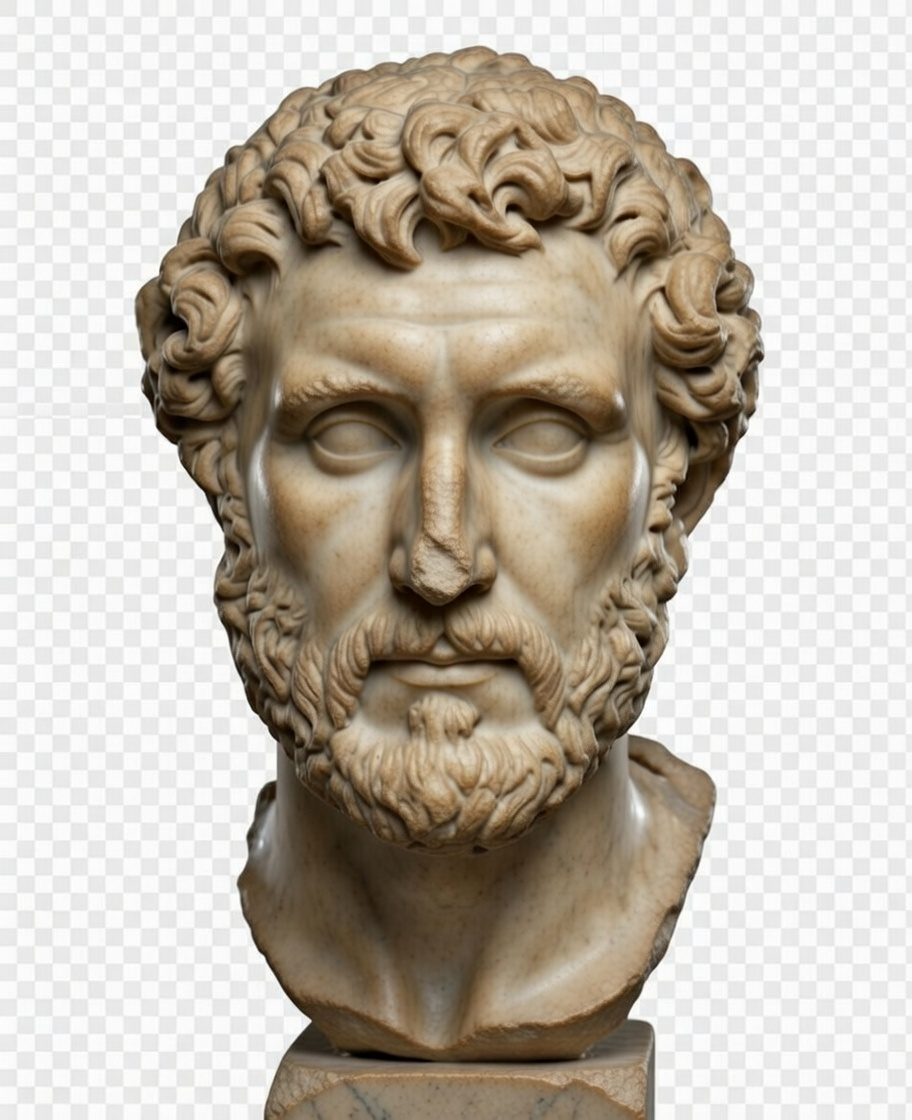
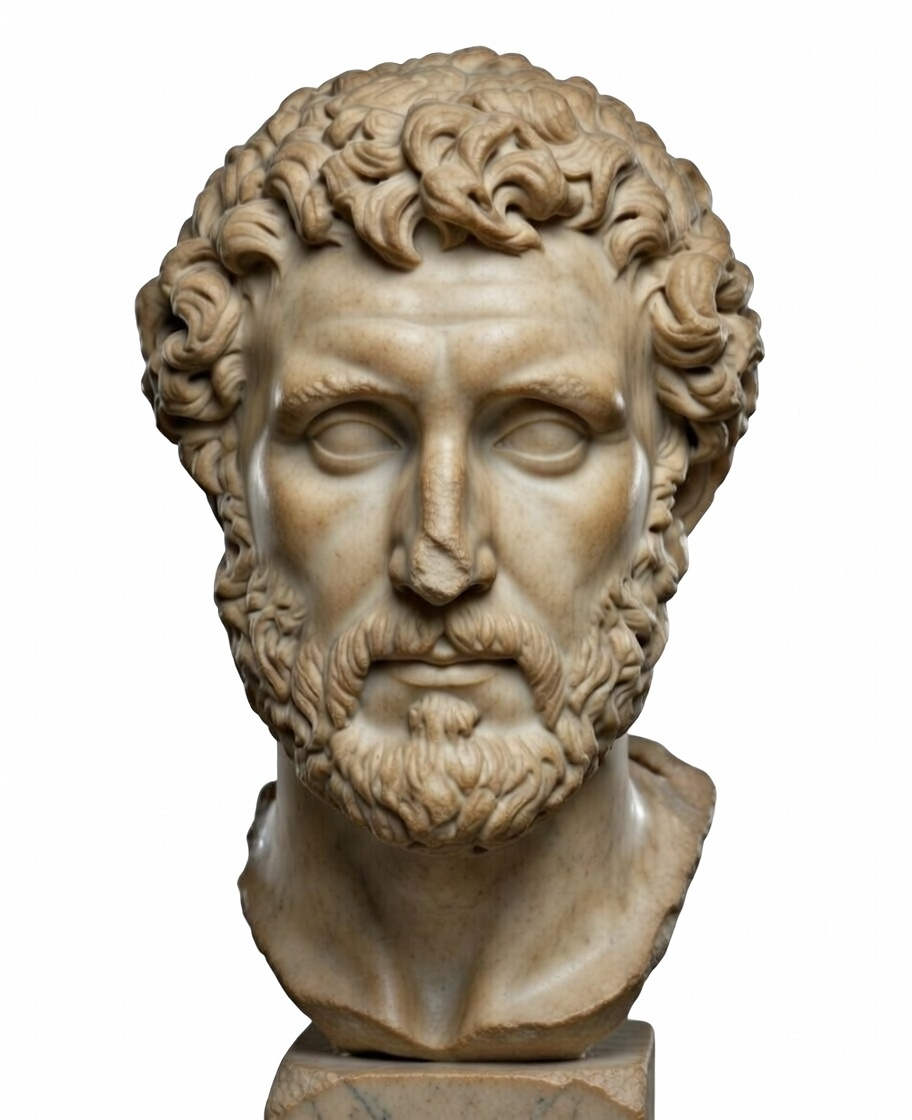
Replace bust image and remove white background

diff --git a/index.html b/index.html
@@ -282,9 +282,9 @@
   .pricing-bust img {
     width: 100%; height: auto;
     filter: drop-shadow(0 0 20px rgba(180,165,135,0.15))
-            sepia(0.3) saturate(0.5) brightness(0.65);
+            sepia(0.35) saturate(0.4) brightness(0.55);
     mix-blend-mode: lighten;
-    opacity: 0.8;
+    opacity: 0.85;
   }
   .pricing-single {
     max-width: 520px; text-align: center; width: 100%;
@@ -677,7 +677,7 @@
   <div class="pricing-layout reveal">
     <div class="pricing-single">
       <div class="pricing-bust">
-        <img src="bust.jpg" alt="Roman bust sculpture">
+        <img src="bust.jpg?v=3" alt="Roman bust sculpture">
       </div>
       <h3>Your Vision, Sculpted</h3>
       <p class="tier-desc">A fully custom, professionally designed website</p>
